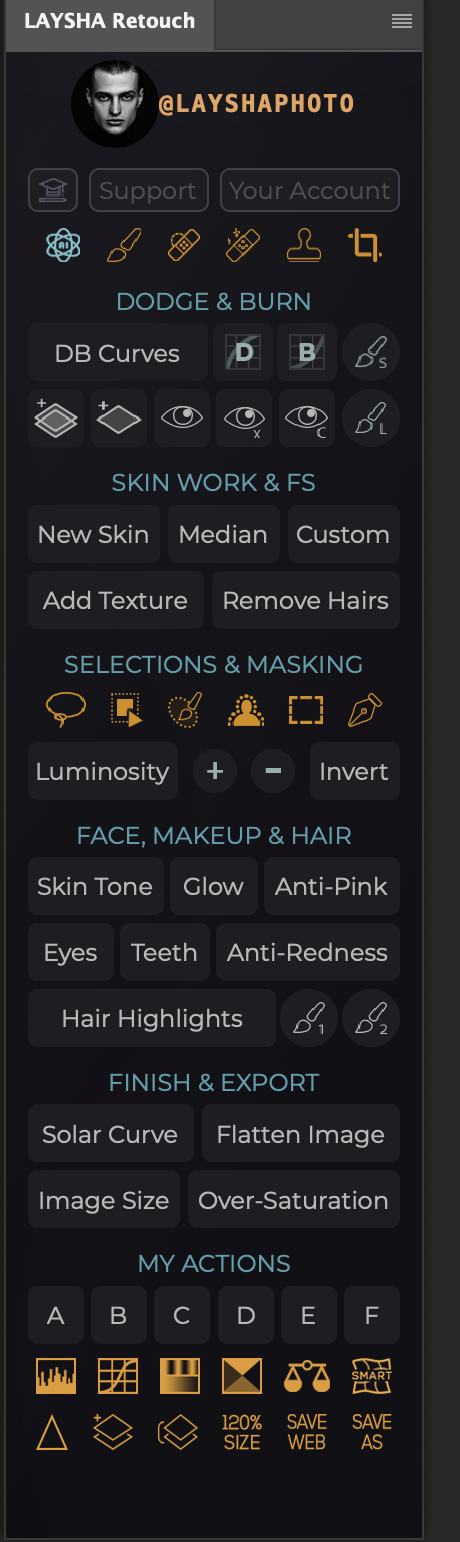
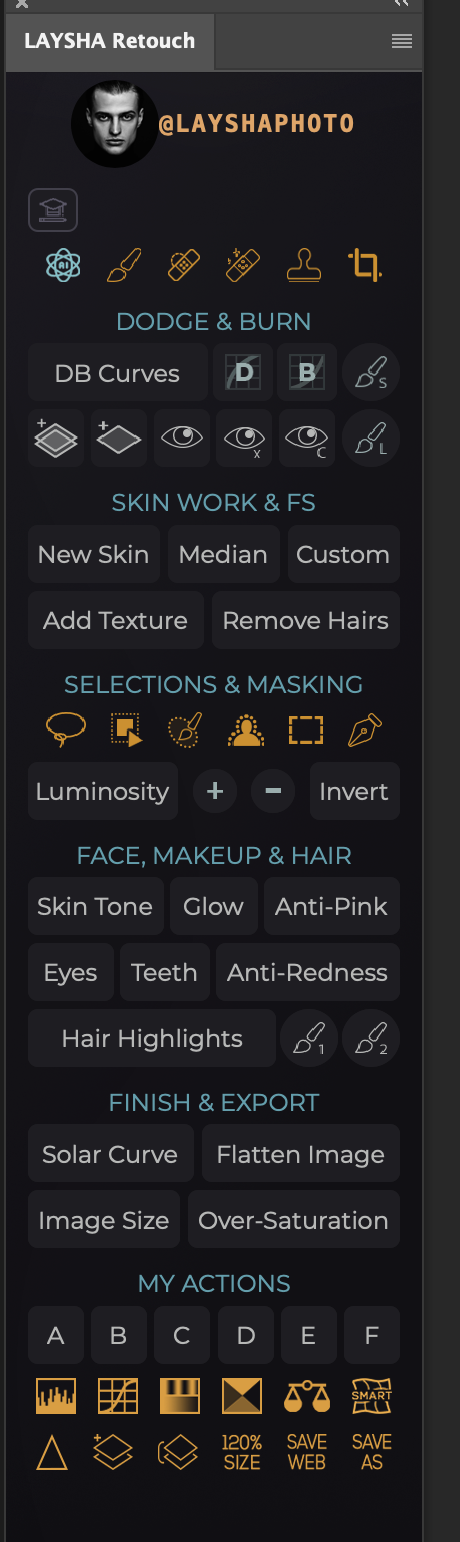
Remove Support/Your Account/Instagram link buttons, keep Video Tutorials only

diff --git a/MyRetouchPanel6/index.html b/MyRetouchPanel6/index.html
@@ -17,7 +17,7 @@
   </div>
 </div>
 
-    <div class="arow links-row"><div class="art a-Link-Tutorials" data-url="https://instagram.com/layshaphoto" data-tip="@layshaphoto on Instagram"></div><div class="art a-Link-Instagram" data-url="https://instagram.com/layshaphoto" data-tip="@layshaphoto on Instagram"></div><div class="art a-Link-Support" data-url="https://instagram.com/layshaphoto" data-tip="Contact: @layshaphoto"></div><div class="art a-Link-Your-Account" data-url="https://instagram.com/layshaphoto" data-tip="@layshaphoto on Instagram"></div></div>
+    <div class="arow links-row"><div class="art a-Link-Tutorials" data-url="https://instagram.com/layshaphoto" data-tip="Video Tutorials"></div></div>
     <div class="arow tool-row"><div class="art a-Tool-AI-Select" onclick="runScript('AITool')" data-tip="AI Select Tool"></div><div class="art a-Tool-Brush" data-fly="brush" data-tip="Brush Tool"></div><div class="art a-Tool-Spot-Heal" data-fly="heal" data-tip="Spot Healing Brush Tool"></div><div class="art a-Tool-Remove" onclick="runScript('RemoveTool')" data-tip="Remove Tool"></div><div class="art a-Tool-Clone-Stamp" onclick="runScript('CloneStampTool')" data-tip="Clone Stamp Tool"></div><div class="art a-Tool-Crop" onclick="runScript('CropTool')" data-tip="Crop Tool"></div></div>
 
 <div class="tabgroup">

diff --git a/MyRetouchPanel/index.html b/MyRetouchPanel/index.html
@@ -25,14 +25,6 @@
             <img src="img/hover/tutorials.png" width="14px" height="12px" class="Sirv image-hover" />
           </div>
         </div>
-        <div data-url="https://instagram.com/layshaphoto" class="secondary-btn"
-          style="width: 60px; ">
-          Support
-        </div>
-        <div data-url="https://instagram.com/layshaphoto" class="secondary-btn"
-          style="width: 90px; ">
-          Your Account
-        </div>
       </div>
       <div class="row" style="padding: 2px 10px;">
         <div data-cmd="AITool" class="figure">
